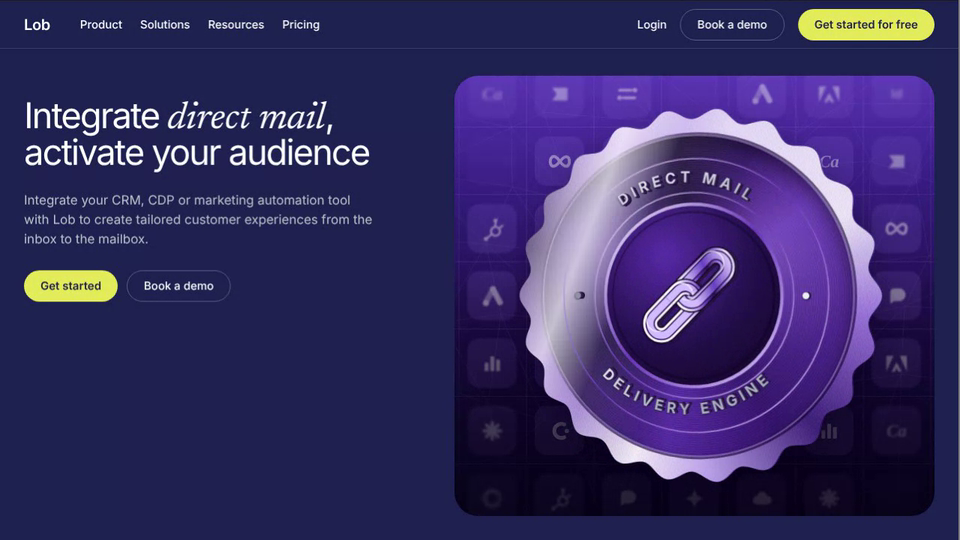
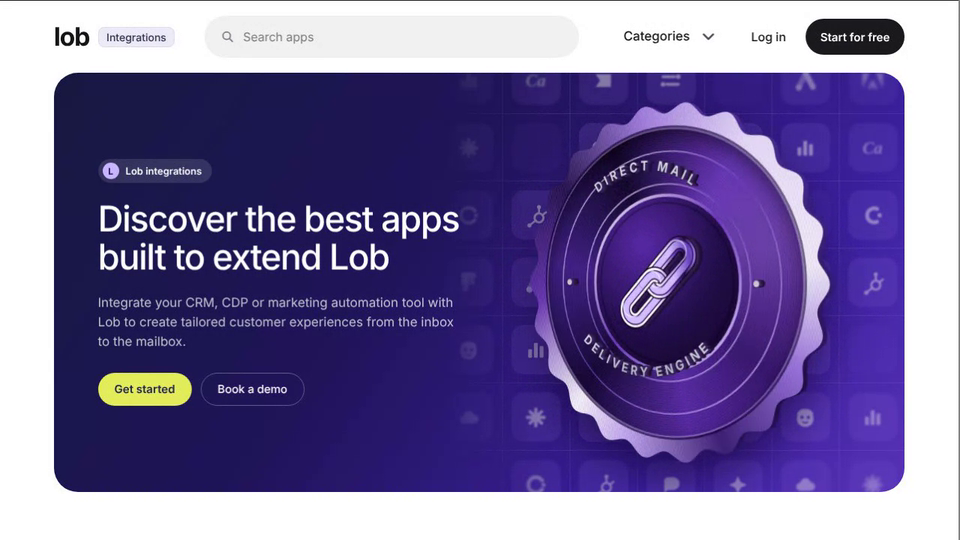
Lob Integrations Hero: marketplace layout, new headline, no mesh lines
Claude-Session: https://claude.ai/code/session_01AHeBdw5Dmhovddhvfinq8X

diff --git a/lob-integrations-hero/index.html b/lob-integrations-hero/index.html
@@ -9,8 +9,8 @@
 <style>
 :root{--ink:#1f2250;--lime:#e4ee5c;--sans:"Inter","Helvetica Neue",Helvetica,Arial,sans-serif;--serif:"Newsreader",Georgia,"Times New Roman",serif}
 *{box-sizing:border-box;margin:0}
-html{background:var(--ink)}
-body{min-height:100vh;display:flex;flex-direction:column;background:var(--ink);color:#fff;font:400 16px/1.4 var(--sans);-webkit-font-smoothing:antialiased}
+html{background:#fff}
+body{min-height:100vh;display:flex;flex-direction:column;background:#fff;color:#16161a;font:400 16px/1.4 var(--sans);-webkit-font-smoothing:antialiased}
 /* ---------- Back nav (shared across all sandbox projects) ---------- */
 nav.back{box-sizing:border-box;flex:none;display:flex;align-items:center;gap:8px;height:49px;padding:0 20px;background:#000;border-bottom:1px solid #1c1c1c;font:400 13px/1.35 "Inter","Helvetica Neue",Helvetica,Arial,sans-serif;-webkit-font-smoothing:antialiased;white-space:nowrap}
 nav.back a{color:#8d8d8d;text-decoration:none}
@@ -27,33 +27,49 @@ nav.back b{font-weight:500;color:#fff;overflow:hidden;text-overflow:ellipsis}
 .switch button[aria-pressed="true"]{background:#fff;color:var(--ink);border-color:#fff}
 .switch svg{width:14px;height:14px}
 
-/* ---------- Lob header ---------- */
-.top{flex:none;height:64px;display:flex;align-items:center;gap:24px;padding:0 32px;border-bottom:1px solid rgba(255,255,255,.12)}
-.brand{font-weight:600;font-size:20px;letter-spacing:-.02em;color:#fff;text-decoration:none}
-.top .menu{display:flex;gap:24px;font-size:15px;font-weight:500;margin-left:16px}
-.top a{color:#fff;text-decoration:none}
-.top .links{display:flex;align-items:center;gap:18px;margin-left:auto;white-space:nowrap;font-size:15px;font-weight:500}
-.top .links a:hover{opacity:.8}
-.btn{display:inline-flex;align-items:center;height:42px;padding:0 22px;border-radius:99px;font:600 15px var(--sans);text-decoration:none;white-space:nowrap;cursor:pointer;border:0}
+/* ---------- Lob marketplace header ---------- */
+:root{--gut:clamp(20px,5.6vw,72px)}
+.top{flex:none;height:96px;display:flex;align-items:center;gap:28px;padding:0 var(--gut)}
+.brand{display:flex;align-items:center;gap:12px;color:#16161a;text-decoration:none;white-space:nowrap}
+.brand b{font-weight:700;font-size:34px;letter-spacing:-.04em}
+.brand em{font:500 14px var(--sans);font-style:normal;background:#ececf8;border:1px solid #dcdcec;border-radius:8px;padding:4px 10px;color:#33334d}
+.search{flex:0 1 500px;margin:0 auto;display:flex;align-items:center;gap:12px;height:56px;padding:0 22px;border-radius:99px;background:#f1f1f1;color:#7a7a82;font-size:16px;min-width:0}
+.search svg{flex:none}
+.top .links{display:flex;align-items:center;gap:26px;white-space:nowrap;font-size:16px;font-weight:500}
+.top a{color:#16161a;text-decoration:none}
+.top .links a:hover{opacity:.7}
+.btn{display:inline-flex;align-items:center;height:44px;padding:0 22px;border-radius:99px;font:600 15px var(--sans);text-decoration:none;white-space:nowrap;cursor:pointer;border:0}
+.top .btn.dark{background:#1b1b1f;color:#fff;height:48px;padding:0 20px}
 .btn.lime{background:var(--lime);color:var(--ink)!important}
 .btn.lime:hover{filter:brightness(1.06)}
-.btn.ghost{background:none;border:1px solid rgba(255,255,255,.28);color:#fff!important;font-weight:500}
-.btn.ghost:hover{border-color:rgba(255,255,255,.6);opacity:1!important}
-@media (max-width:1000px){.top .menu{display:none!important}}
-@media (max-width:820px){.top{padding:0 20px}.top .btn.ghost,.top .links>a:first-child{display:none!important}}
+.btn.ghost{background:none;border:1px solid rgba(255,255,255,.3);color:#fff!important;font-weight:500}
+.btn.ghost:hover{border-color:rgba(255,255,255,.65)}
+@media (max-width:900px){.top{height:72px}.search,.top .links .cat{display:none}.top .links>a:nth-child(2){display:none}.brand b{font-size:28px}.top .links{margin-left:auto}}
 
-/* ---------- hero ---------- */
-.hero{flex:1;min-height:520px;display:grid;grid-template-columns:5fr 6fr;gap:40px;padding:36px 32px 32px;align-items:start}
-.copy{padding-top:28px;min-width:0}
-h1{font-weight:400;font-size:clamp(32px,3.7vw,52px);line-height:1.04;letter-spacing:-.045em;margin:0 0 26px}
-h1 i{font-family:var(--serif);font-style:italic;letter-spacing:-.01em;font-size:1.06em;line-height:0}
-.sub{font-size:17px;line-height:1.55;color:rgba(255,255,255,.72);max-width:470px}
+/* ---------- hero panel ---------- */
+.hero{color:#fff;position:relative;margin:0 var(--gut);height:560px;border-radius:32px;overflow:hidden;isolation:isolate;
+  background:linear-gradient(125deg,#171a42 0%,#22155c 42%,#3d22a0 78%,#5a33b8 100%)}
+.copy{position:relative;z-index:4;width:50%;height:100%;display:flex;flex-direction:column;justify-content:center;padding:0 0 0 clamp(24px,4.6vw,60px)}
+.chip{align-self:flex-start;display:inline-flex;align-items:center;gap:9px;background:rgba(255,255,255,.12);border-radius:99px;padding:5px 14px 5px 6px;font-size:13px;font-weight:600;margin-bottom:22px}
+.chip i{width:22px;height:22px;border-radius:50%;background:#c9b6ff;color:#241660;display:grid;place-items:center;font:700 12px var(--sans);font-style:normal}
+h1{font-weight:500;font-size:clamp(27px,3.7vw,52px);line-height:1.08;letter-spacing:-.035em;margin:0 0 22px}
+.sub{font-size:17px;line-height:1.55;color:rgba(255,255,255,.74);max-width:480px}
 .cta{display:flex;gap:12px;margin-top:28px;flex-wrap:wrap}
-@media (max-width:900px){.hero{grid-template-columns:1fr;gap:28px;padding:28px 20px 28px}.copy{padding-top:0}.panel{height:min(112vw,540px)!important}}
+@media (max-width:900px){.hero{height:auto;display:flex;flex-direction:column}.copy{width:100%;height:auto;padding:40px 24px 8px}.vis{position:relative!important;width:100%!important;height:min(100vw,420px)!important;-webkit-mask-image:none!important;mask-image:none!important}}
+
+/* ---------- top categories ---------- */
+.cats{padding:68px var(--gut) 80px}
+.cats h2{font-weight:500;font-size:28px;letter-spacing:-.025em;margin-bottom:28px}
+.cat-grid{display:grid;grid-template-columns:repeat(4,1fr);gap:28px}
+.cat{display:flex;align-items:center;justify-content:space-between;gap:12px;height:104px;padding:0 20px 0 20px;border-radius:20px;color:#16161a;text-decoration:none;font-size:17px;font-weight:500;background:var(--c)}
+.cat span{width:48px;height:48px;border-radius:50%;background:rgba(0,0,0,.08);display:grid;place-items:center;flex:none}
+.cat svg{width:22px;height:22px;stroke:#50505c;fill:none;stroke-width:1.7;stroke-linecap:round;stroke-linejoin:round}
+.cat:hover{filter:brightness(.97)}
+@media (max-width:900px){.cat-grid{grid-template-columns:repeat(2,1fr);gap:14px}.cat{height:84px;font-size:15px}.cats{padding-top:44px}}
 
 /* ---------- visual panel ---------- */
-.panel{position:relative;height:100%;min-height:0;border-radius:32px;overflow:hidden;container-type:size;isolation:isolate;
-  background:linear-gradient(180deg,#5a33b3 0%,#3b1e86 22%,#21104e 52%,#0e0628 88%,#080318 100%)}
+.vis{position:absolute;right:0;top:0;bottom:0;width:55%;z-index:1;container-type:size;
+  -webkit-mask-image:linear-gradient(90deg,transparent 0,#000 24%);mask-image:linear-gradient(90deg,transparent 0,#000 24%)}
 .tiles{position:absolute;left:50%;top:50%;transform:translate(-50%,-50%);display:grid;z-index:1}
 .lines{position:absolute;inset:0;z-index:0;pointer-events:none;
   background-image:linear-gradient(90deg,rgba(205,170,255,.15) 1px,transparent 1px),linear-gradient(0deg,rgba(205,170,255,.15) 1px,transparent 1px);
@@ -66,7 +82,7 @@ h1 i{font-family:var(--serif);font-style:italic;letter-spacing:-.01em;font-size:
 .tile.ghost{background:rgba(170,120,245,.1)}
 body[data-mode="icon"] .tile{--mo:.25;filter:blur(1.5px)}
 body[data-mode="icon"] .tile.ghost{--mo:.9}
-.veil{position:absolute;inset:0;z-index:2;pointer-events:none;background:linear-gradient(180deg,rgba(20,8,48,0) 45%,rgba(8,3,24,.72) 100%),radial-gradient(ellipse 70% 60% at 50% 40%,rgba(130,70,220,.26),transparent 70%)}
+.veil{position:absolute;inset:0;z-index:2;pointer-events:none;background:radial-gradient(ellipse 60% 60% at 50% 50%,rgba(130,70,220,.3),transparent 70%)}
 
 .slot{position:absolute;inset:0;z-index:3;display:grid;place-items:center;perspective:1300px;pointer-events:none;
   transition:opacity .7s ease,transform .9s cubic-bezier(.2,.8,.2,1)}
@@ -113,34 +129,47 @@ body[data-mode="icon"] .slot-icon{opacity:1;transform:none}
 </div></nav>
 
 <header class="top">
-  <a class="brand" href="#">Lob</a>
-  <nav class="menu"><a href="#">Product</a><a href="#">Solutions</a><a href="#">Resources</a><a href="#">Pricing</a></nav>
+  <a class="brand" href="#"><b>lob</b><em>Integrations</em></a>
+  <div class="search" role="search"><svg width="18" height="18" viewBox="0 0 20 20" fill="none" stroke="#7a7a82" stroke-width="2" stroke-linecap="round"><circle cx="8.5" cy="8.5" r="5.5"/><path d="m13 13 4 4"/></svg><span>Search apps</span></div>
   <div class="links">
-    <a href="#">Login</a>
-    <a class="btn ghost" href="#">Book a demo</a>
-    <a class="btn lime" href="#">Get started for free</a>
+    <a class="cat" href="#">Categories <svg width="12" height="12" viewBox="0 0 14 14" fill="none" stroke="#16161a" stroke-width="2" stroke-linecap="round" stroke-linejoin="round" style="margin-left:2px"><path d="m3 5 4 4 4-4"/></svg></a>
+    <a href="#">Log in</a>
+    <a class="btn dark" href="#">Start for free</a>
   </div>
 </header>
 
-<main class="hero">
-  <div class="copy">
-    <h1>Integrate <i>direct mail</i>,<br>activate your audience</h1>
-    <p class="sub">Integrate your CRM, CDP or marketing automation tool with Lob to create tailored customer experiences from the inbox to the mailbox.</p>
-    <div class="cta"><a class="btn lime" href="#">Get started</a><a class="btn ghost" href="#">Book a demo</a></div>
-  </div>
-
-  <section class="panel" id="panel" aria-label="Lob integrations badge on a grid of marketing integrations">
-    <div class="lines" id="lines"></div>
-    <div class="tiles" id="tiles" aria-hidden="true"></div>
-    <div class="veil"></div>
-
-    <div class="slot slot-badge" id="slotBadge">
-      <div class="badge" id="badge" role="img" aria-label="Lob Direct Mail Delivery Engine badge with a raised metallic link icon"></div>
+<main>
+  <section class="hero">
+    <div class="copy">
+      <span class="chip"><i>L</i>Lob integrations</span>
+      <h1>Discover the best apps<br>built to extend Lob</h1>
+      <p class="sub">Integrate your CRM, CDP or marketing automation tool with Lob to create tailored customer experiences from the inbox to the mailbox.</p>
+      <div class="cta"><a class="btn lime" href="#">Get started</a><a class="btn ghost" href="#">Book a demo</a></div>
     </div>
 
-    <div class="slot slot-icon" id="slotIcon">
-      <div class="floor"></div>
-      <div class="icon3d" id="icon3d" role="img" aria-label="Embossed metallic link icon"></div>
+    <div class="vis" id="panel" aria-label="Lob integrations badge on a grid of marketing integrations">
+      <div class="lines" id="lines"></div>
+      <div class="tiles" id="tiles" aria-hidden="true"></div>
+      <div class="veil"></div>
+
+      <div class="slot slot-badge" id="slotBadge">
+        <div class="badge" id="badge" role="img" aria-label="Lob Direct Mail Delivery Engine badge with a raised metallic link icon"></div>
+      </div>
+
+      <div class="slot slot-icon" id="slotIcon">
+        <div class="floor"></div>
+        <div class="icon3d" id="icon3d" role="img" aria-label="Embossed metallic link icon"></div>
+      </div>
+    </div>
+  </section>
+
+  <section class="cats">
+    <h2>Top categories</h2>
+    <div class="cat-grid">
+      <a class="cat" href="#" style="--c:#e4e4e4">Data<span><svg viewBox="0 0 24 24"><ellipse cx="12" cy="6" rx="7" ry="3"/><path d="M5 6v6c0 1.7 3.1 3 7 3s7-1.3 7-3V6M5 12v6c0 1.7 3.1 3 7 3s7-1.3 7-3v-6"/></svg></span></a>
+      <a class="cat" href="#" style="--c:#c8e6fb">Design<span><svg viewBox="0 0 24 24"><path d="M4 20l4-1 11-11a2.1 2.1 0 0 0-3-3L5 16l-1 4zM14 7l3 3"/></svg></span></a>
+      <a class="cat" href="#" style="--c:#fae6d8">API<span><svg viewBox="0 0 24 24"><path d="M8 7l-5 5 5 5M16 7l5 5-5 5M14 5l-4 14"/></svg></span></a>
+      <a class="cat" href="#" style="--c:#dbe4fb">No Code<span><svg viewBox="0 0 24 24"><rect x="4" y="4" width="7" height="7" rx="1.5"/><rect x="13" y="4" width="7" height="7" rx="1.5"/><rect x="4" y="13" width="7" height="7" rx="1.5"/><path d="M16.5 14v6M13.5 17h6"/></svg></span></a>
     </div>
   </section>
 </main>
@@ -175,15 +204,6 @@ var BRANDS=[
 var TILE='rgba(150,110,225,.34)';
 
 var panel=document.getElementById('panel'), tiles=document.getElementById('tiles'), lines=document.getElementById('lines');
-/* faint triangulated mesh behind the grid, like the reference's blueprint lines */
-function mesh(w,h){
-  var step=96, cols=Math.ceil(w/step)+2, rows=Math.ceil(h/step)+2, P=[], seed=7;
-  function rnd(){seed=(seed*16807)%2147483647;return seed/2147483647}
-  for(var j=0;j<rows;j++){P[j]=[];for(var i=0;i<cols;i++)P[j][i]=[(i-.5)*step+(rnd()-.5)*step*.7,(j-.5)*step+(rnd()-.5)*step*.7]}
-  var d='';function L(a,b){d+='M'+a[0].toFixed(0)+' '+a[1].toFixed(0)+'L'+b[0].toFixed(0)+' '+b[1].toFixed(0)}
-  for(j=0;j<rows-1;j++)for(i=0;i<cols-1;i++){L(P[j][i],P[j][i+1]);L(P[j][i],P[j+1][i]);if(rnd()<.5)L(P[j][i],P[j+1][i+1]);else L(P[j][i+1],P[j+1][i])}
-  return '<svg viewBox="0 0 '+w+' '+h+'" preserveAspectRatio="none"><path d="'+d+'" fill="none" stroke="rgba(205,170,255,.1)" stroke-width="1"/></svg>';
-}
 function build(){
   var w=panel.clientWidth,h=panel.clientHeight; if(!w||!h) return;
   var cell=Math.max(44,Math.min(66,Math.round(Math.min(w/7,h/6)))), gap=Math.round(cell*.36), pitch=cell+gap;
@@ -197,7 +217,6 @@ function build(){
   var left=w/2-gw/2, top=h/2-gh/2;
   lines.style.backgroundSize=pitch+'px '+pitch+'px';
   lines.style.backgroundPosition=(((left+cell+gap/2)%pitch)+pitch)%pitch+'px '+(((top+cell+gap/2)%pitch)+pitch)%pitch+'px';
-  lines.innerHTML=mesh(w,h);
   var html='', half=Math.min(w,h)/2;
   for(var r=0;r<rows;r++)for(var c=0;c<cols;c++){
     var dx=(c-(cols-1)/2)*pitch, dy=(r-(rows-1)/2)*pitch, d=Math.hypot(dx,dy*1.05)/half;
